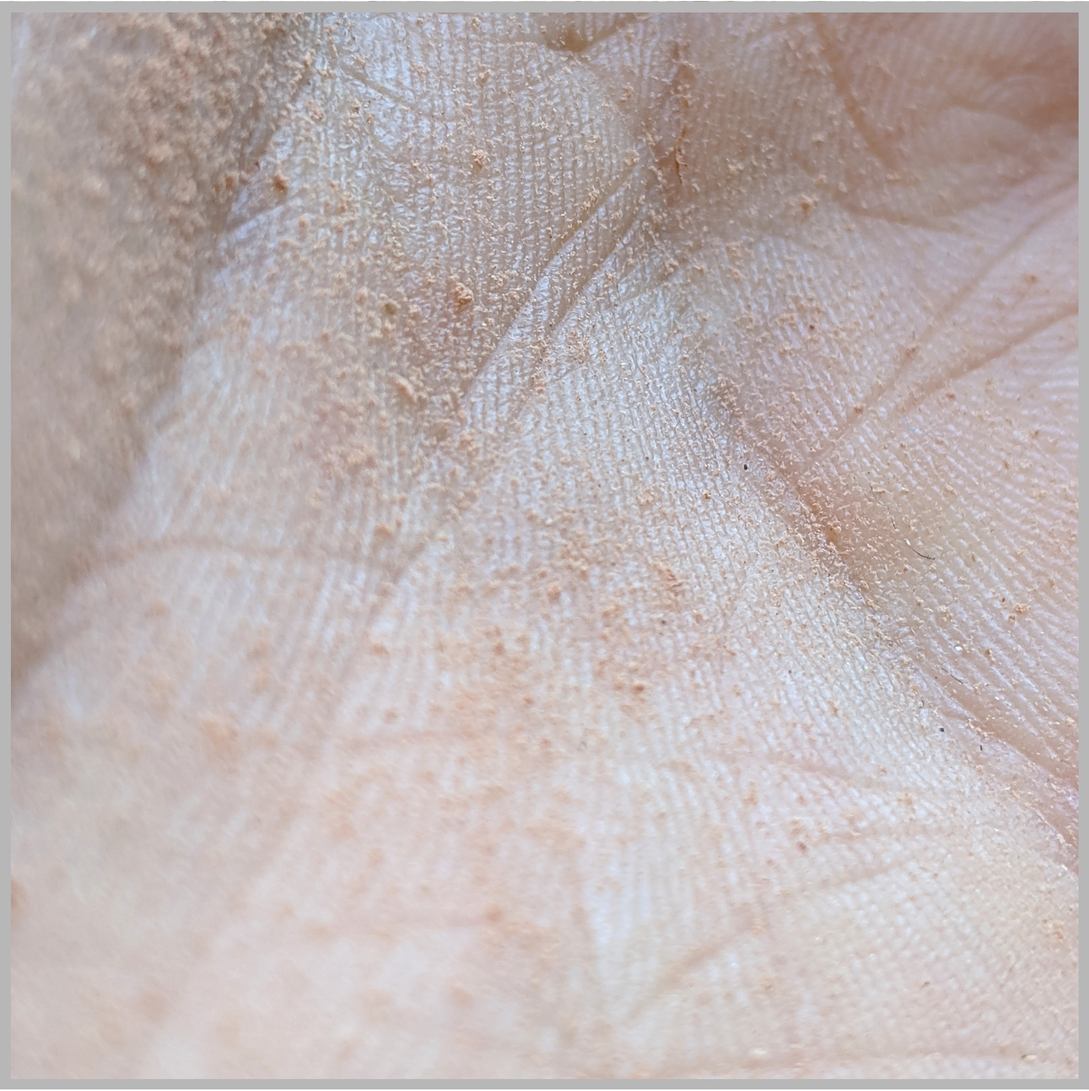
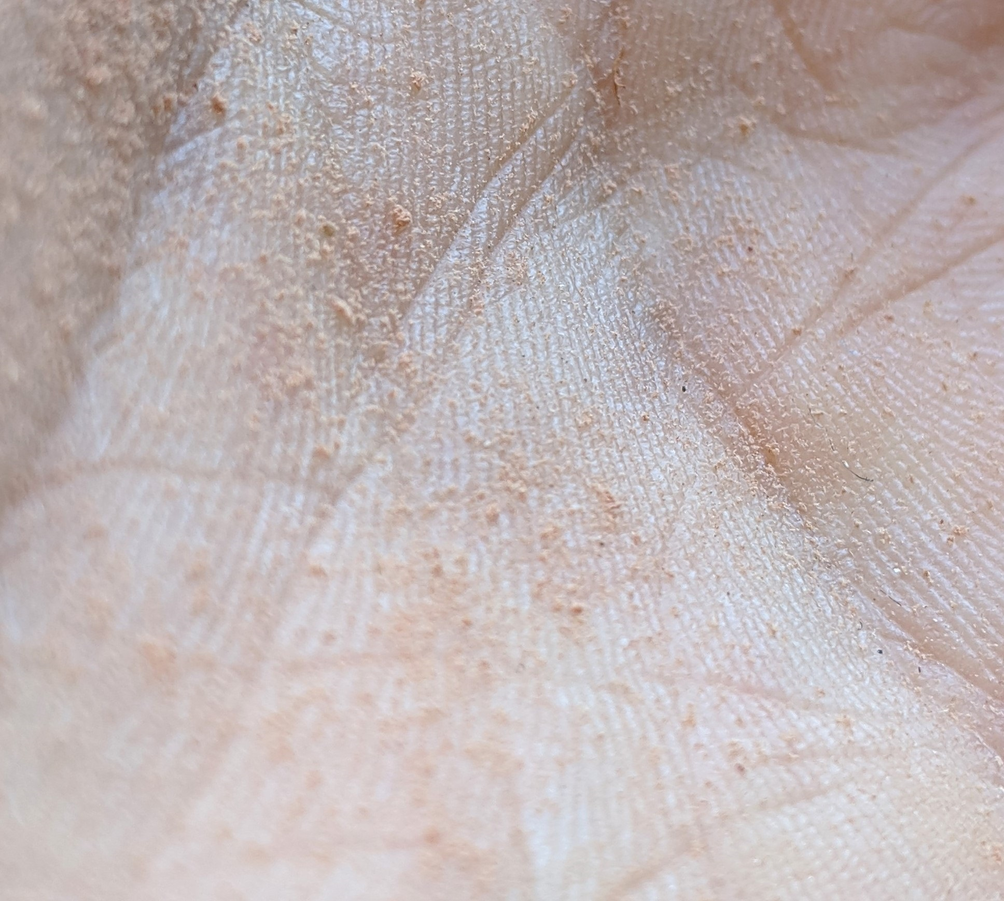
resize images for web

diff --git a/pages/2020_pool-hall-canon/pool-hall-canon.html b/pages/2020_pool-hall-canon/pool-hall-canon.html
@@ -25,20 +25,7 @@
 <div class="flex-text">
 
 	<!-- Trigger the Modal -->
-<img id="myImg" src="canon score.png" alt="Pool Hall Canon Score" style="width:100%;">
-
-<!-- The Modal -->
-<div id="myModal" class="modal">
-
-  <!-- The Close Button -->
-  <span class="close">&times;</span>
-
-  <!-- Modal Content (The Image) -->
-  <img class="modal-content" id="img01">
-
-  <!-- Modal Caption (Image Text) -->
-  <div id="caption"></div>
-</div>
+<img id="myImg" src="canon score.jpg" alt="Pool Hall Canon Score" style="width:100%;">
 
 </div>
 
@@ -52,31 +39,4 @@
 The piece is written as a six-voiced canon, which works in a typical hall dedicated to billiards games, but it can be adapted to pool halls or bars with fewer than six tables.
 </p>
 </div>
-
-<div class="license">
-<a rel="license" href="http://creativecommons.org/licenses/by-nc-sa/4.0/"><img alt="Creative Commons License" style="border-width:0; opacity:50%" src="https://i.creativecommons.org/l/by-nc-sa/4.0/80x15.png" /></a>.
-</div>
-
-<script>
-// Get the modal
-var modal = document.getElementById("myModal");
-
-// Get the image and insert it inside the modal - use its "alt" text as a caption
-var img = document.getElementById("myImg");
-var modalImg = document.getElementById("img01");
-var captionText = document.getElementById("caption");
-img.onclick = function(){
-  modal.style.display = "block";
-  modalImg.src = this.src;
-  captionText.innerHTML = this.alt;
-}
-
-// Get the <span> element that closes the modal
-var span = document.getElementsByClassName("close")[0];
-
-// When the user clicks on <span> (x), close the modal
-span.onclick = function() { 
-  modal.style.display = "none";
-}
-</script>
 </html>

diff --git a/pages/2020_road_sounds/road_sounds.html b/pages/2020_road_sounds/road_sounds.html
@@ -76,11 +76,11 @@
 	</audio>
 		<img src="front.jpg" alt="CD"
 		style="width:100%;">
-		<img src="I-95.png" alt="I-95"
+		<img src="I-95.jpg" alt="I-95"
 		style="width:100%;">
-		<img src="road technology.png" alt="Road Technology"
+		<img src="road technology.jpg" alt="Road Technology"
 		style="width:100%;">
-		<img src="Concert2.png" alt="Concert 2"
+		<img src="Concert2.jpg" alt="Concert 2"
 		style="width:100%;">
 	
 

diff --git a/pages/2021_Carnival's Quarrel with Lent/carnivals_quarrel.html b/pages/2021_Carnival's Quarrel with Lent/carnivals_quarrel.html
@@ -90,7 +90,7 @@ printed by: das druckhaus, korschenbroich <br>
 
 <br> <br>
 <p>Score for "glissando"</p>
-<img src="Glissando score.png" alt="glissando score" style="width:80%;">
+<img src="Glissando score.jpg" alt="glissando score" style="width:80%;">
 
 <br><br>
 <p>Score for "quintet i"</p>
